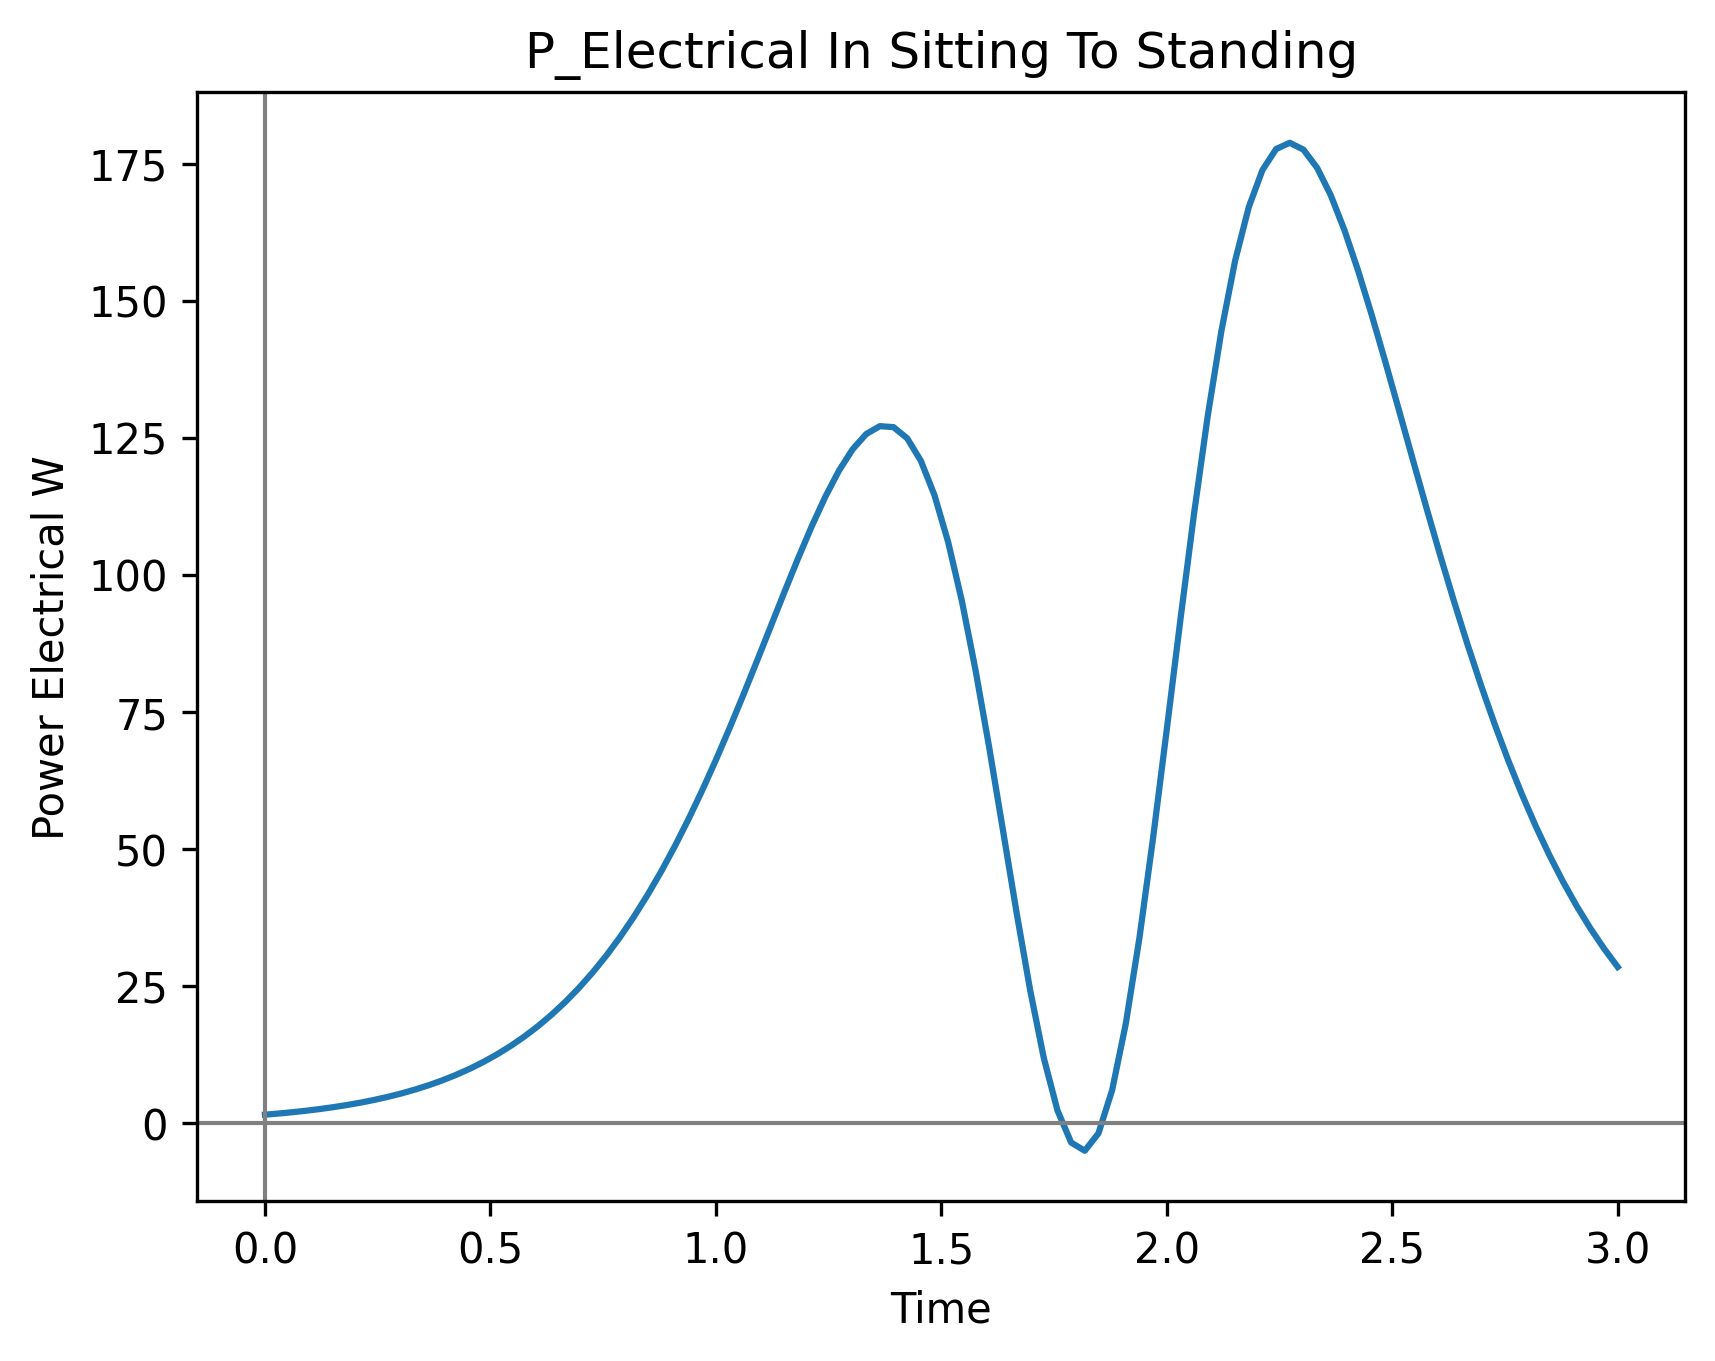
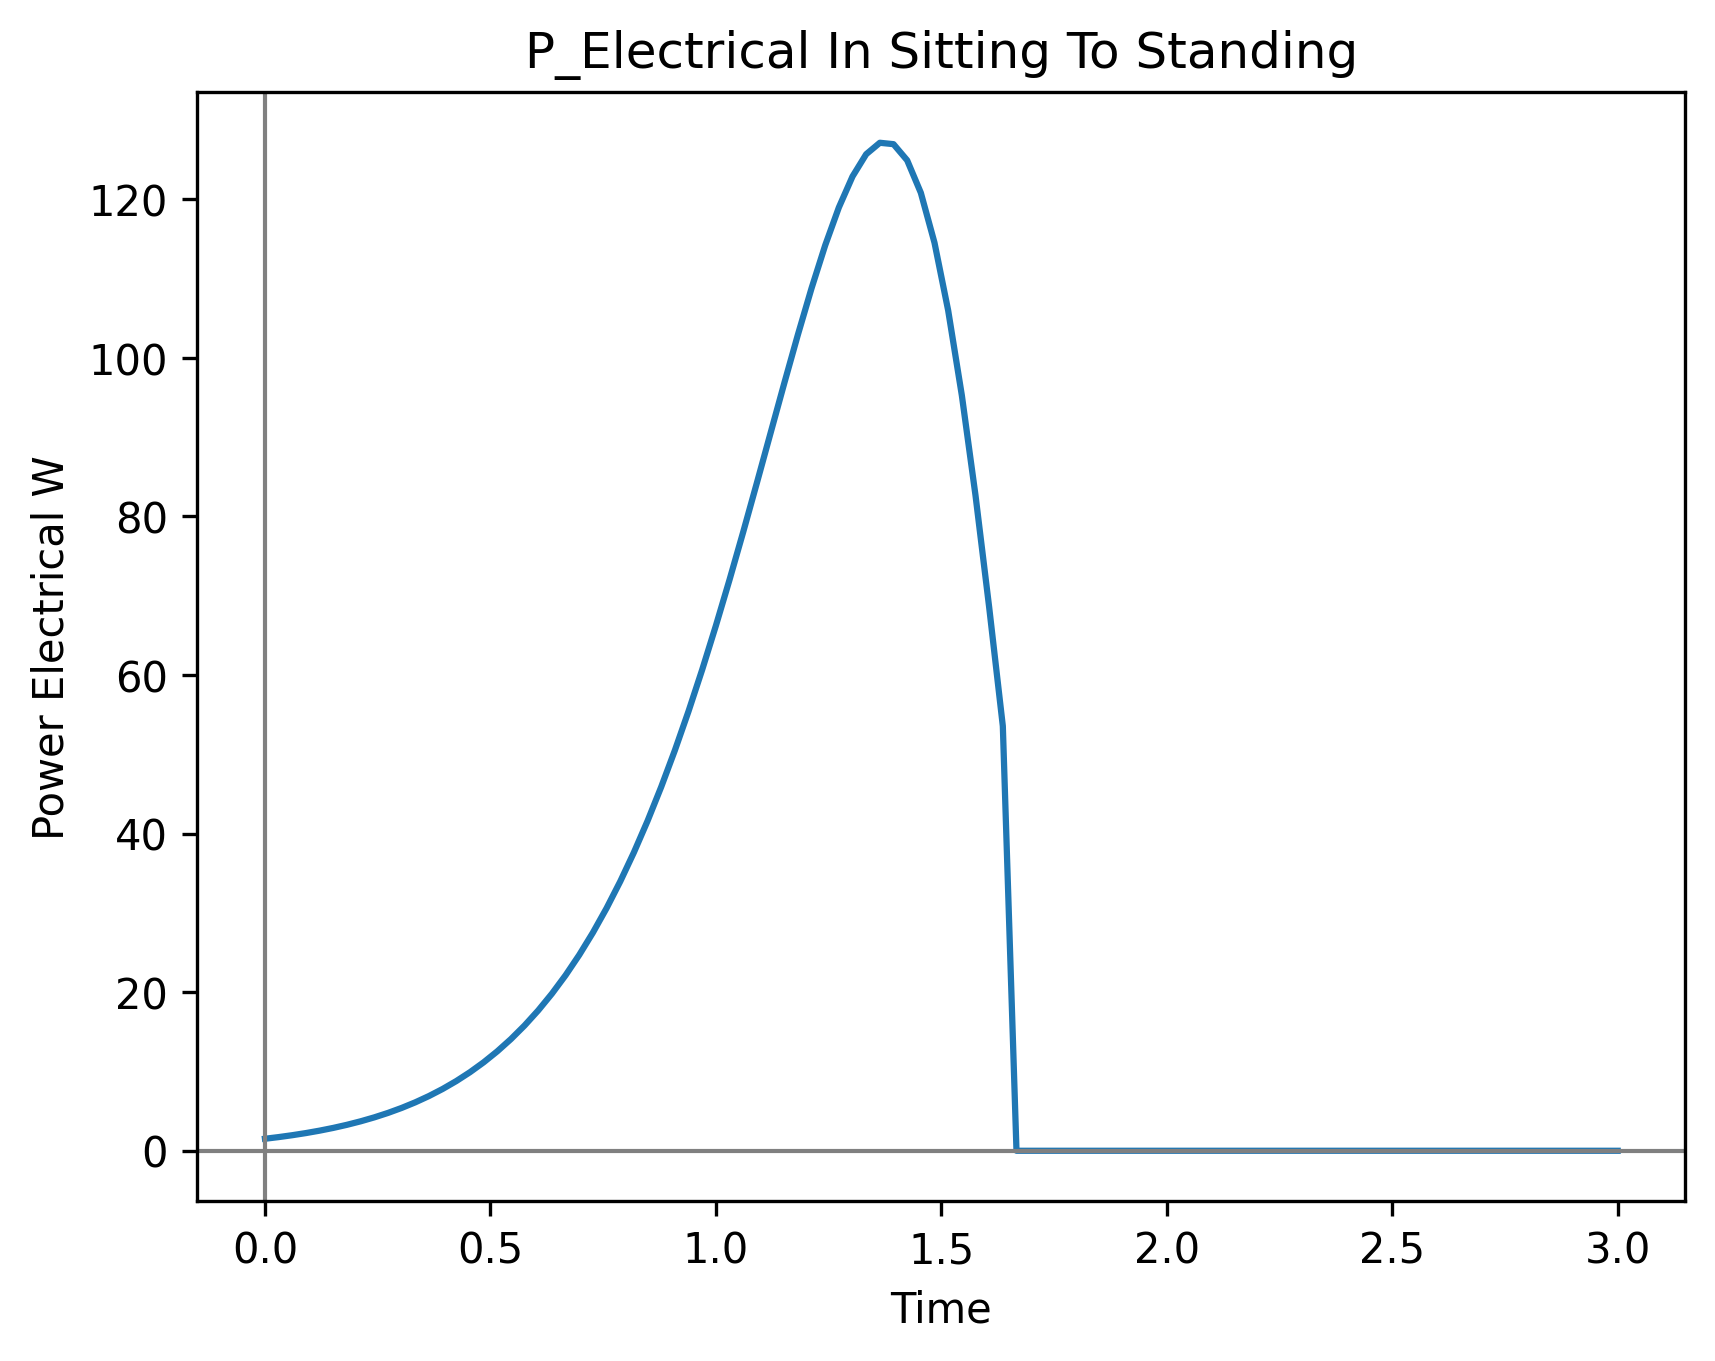
code

diff --git a/Model_1/main.py b/Model_1/main.py
@@ -38,13 +38,28 @@ sts_torque_x = []
 sts_torque_y = []
 x_power_elec = []
 y_power_elec = []
+max_torque = None
+theta2_t = []
+theta2_y = []
+
+#for scaling s curve to ~2 seconds
+time_scale = 3.0/2.0
 #functions
 
 #****************sit to stand stuff****************#
 def angular_velocity_sts(x):
     return 107.478*((1/np.cosh((x-1.85)/0.37))**2)
-
+def angle_sts_fast(t):
+    # same shape, but completes in 2 s instead of 3
+    t_old = time_scale * t
+    return 141.33 + 39.77 * np.tanh((t_old - 1.85) / 0.37)
+def angular_velocity_sts_fast(t):
+    # chain rule: dθ_new/dt = (dθ_old/dt_old) * dt_old/dt
+    t_old = time_scale * t
+    omega_old = 107.478 * (1 / np.cosh((t_old - 1.85) / 0.37))**2
+    return time_scale * omega_old
 def get_csv_torque_data():
+    global max_torque
     sts_torque_x.clear()
     sts_torque_y.clear()
     with open('sts_torque.csv', 'r', newline='') as power_file:
@@ -56,6 +71,20 @@ def get_csv_torque_data():
             if len(row) > tor_col_idx:
                 sts_torque_x.append(float(row[time_col_idx]))
                 sts_torque_y.append(float(row[tor_col_idx]))
+    max_torque = max(sts_torque_x)
+    return
+def get_theta_2():
+    theta2_y.clear()
+    theta2_t.clear()
+    with open('theta2_plot.csv', 'r', newline='') as power_file:
+        file_reader = csv.reader(power_file)
+        header = next(file_reader)
+        time_col_idx = 0
+        the_col_idx = 1
+        for row in file_reader:
+            if len(row) > the_col_idx:
+                theta2_t.append(float(row[time_col_idx]))
+                theta2_y.append(float(row[the_col_idx]))
     return
 
 get_csv_torque_data()
@@ -64,8 +93,9 @@ print(a)
 print(b)
 print(c)
 def torque_function(x):
-    return a*(x**2) + (b*x) + c
-
+    if max_torque == None:
+        raise ValueError("max_torque threshold is not set!")
+    return a*(x**2) + (b*x) + c if x <= max_torque else 0
 def power_sts(x):
     t = torque_function(x)
     av = angular_velocity_sts(x)
@@ -76,6 +106,10 @@ def sts_cycle():
     for i in values:
         y_power_elec.append(power_sts(i))
         x_power_elec.append(i)
+
+#****************piecewising****************#
+
+#****************piecewising****************#
 
 def sit_to_stand_plots():
     sts_cycle()
@@ -90,13 +124,16 @@ def sit_to_stand_plots():
     #plt.show()
     return
 def test_plot():
-    temp_x = []
-    temp_y = []
-    for i in range(100):
-        temp_x.append(i)
-        temp_y.append(torque_function(i))
+    get_csv_torque_data()
+
+    # 20 points from 0 to 2 seconds
+    t_vals = np.linspace(0.0, 3.0, 20)
+
+    # evaluate your fitted torque function at those times
+    tau_vals = [torque_function(t) for t in t_vals]
+
     plt.figure(7)
-    plt.plot(temp_x, temp_y)
+    plt.plot(t_vals, tau_vals, marker='o')  # marker='o' so you can see the 20 points
     plt.axhline(y=0, color='gray', linestyle='-', linewidth=1)
     plt.axvline(x=0, color='gray', linestyle='-', linewidth=1)
     plt.xlabel('Time')
@@ -276,7 +313,7 @@ average_power_gait()
 braking_torque()
 #cum_avg_plot()
 battery_life_estimate()
-#sit_to_stand_plots()
+sit_to_stand_plots()
 test_plot()
 
 
